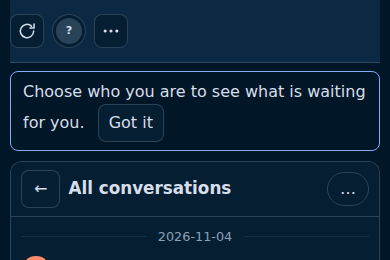
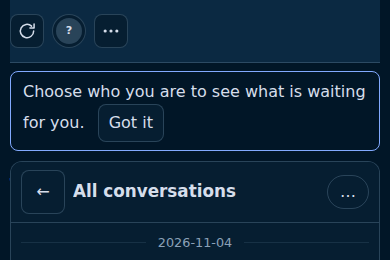
fix(ui): make the phone back control a 44 px touch target
- Set a 44 px minimum size on the icon-only back control
- Test the control size at 390 px
- Refresh the after screenshots

Refs: #76

diff --git a/e2e/phone-topic-bar.spec.ts b/e2e/phone-topic-bar.spec.ts
@@ -274,4 +274,11 @@ test.describe("the phone topic bar @csp", () => {
     await expect(page.locator(".topic-bar h2")).toHaveText(`#${LONG_TOPIC}`);
     await expectOneLine(page);
   });
+
+  test("the back control is a proper touch target @csp", async ({ page }) => {
+    await openTopic(page);
+    const box = await barBack(page).boundingBox();
+    expect(box?.width).toBeGreaterThanOrEqual(44);
+    expect(box?.height).toBeGreaterThanOrEqual(44);
+  });
 });

diff --git a/src/ui/styles.css b/src/ui/styles.css
@@ -1684,6 +1684,8 @@ span.chip {
 
   .topic-bar .back-to-topics {
     flex: none;
+    min-width: 44px;
+    min-height: 44px;
     padding-inline: 12px;
   }
 
